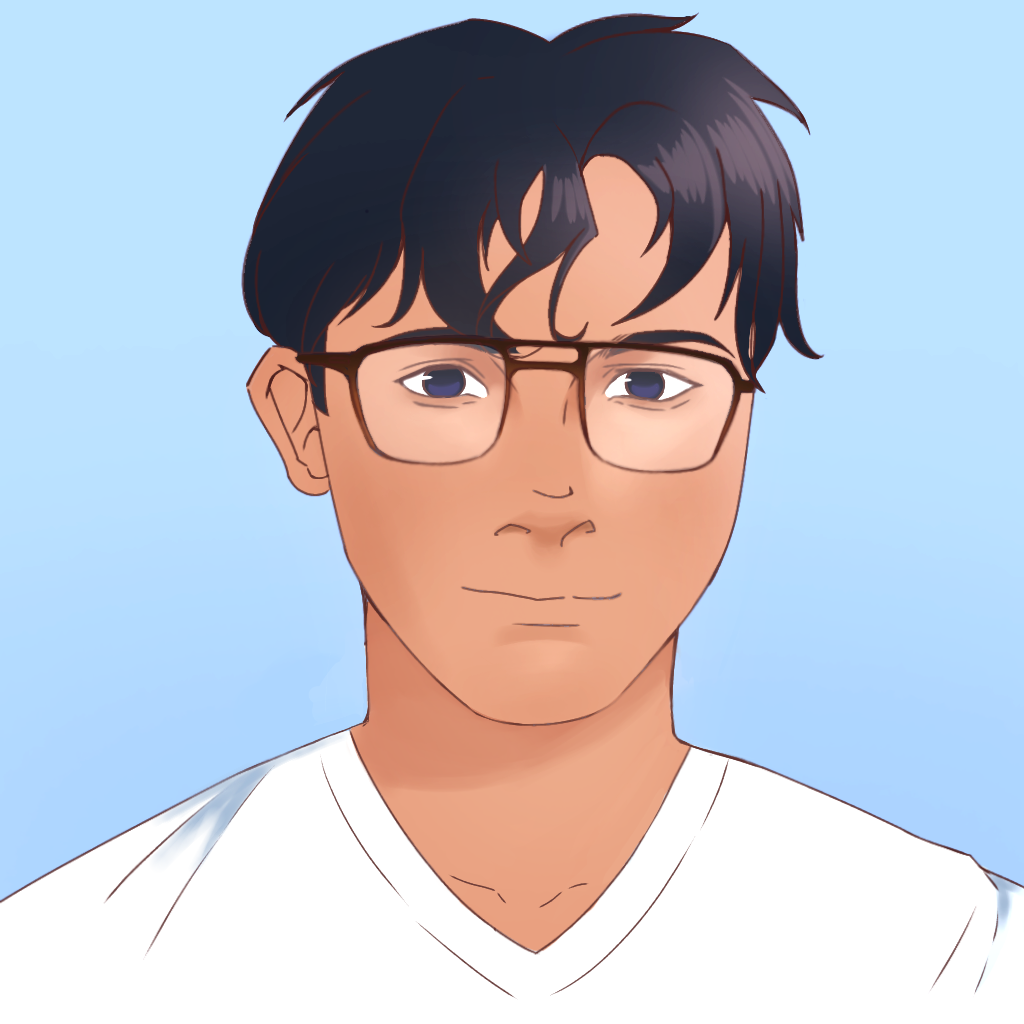
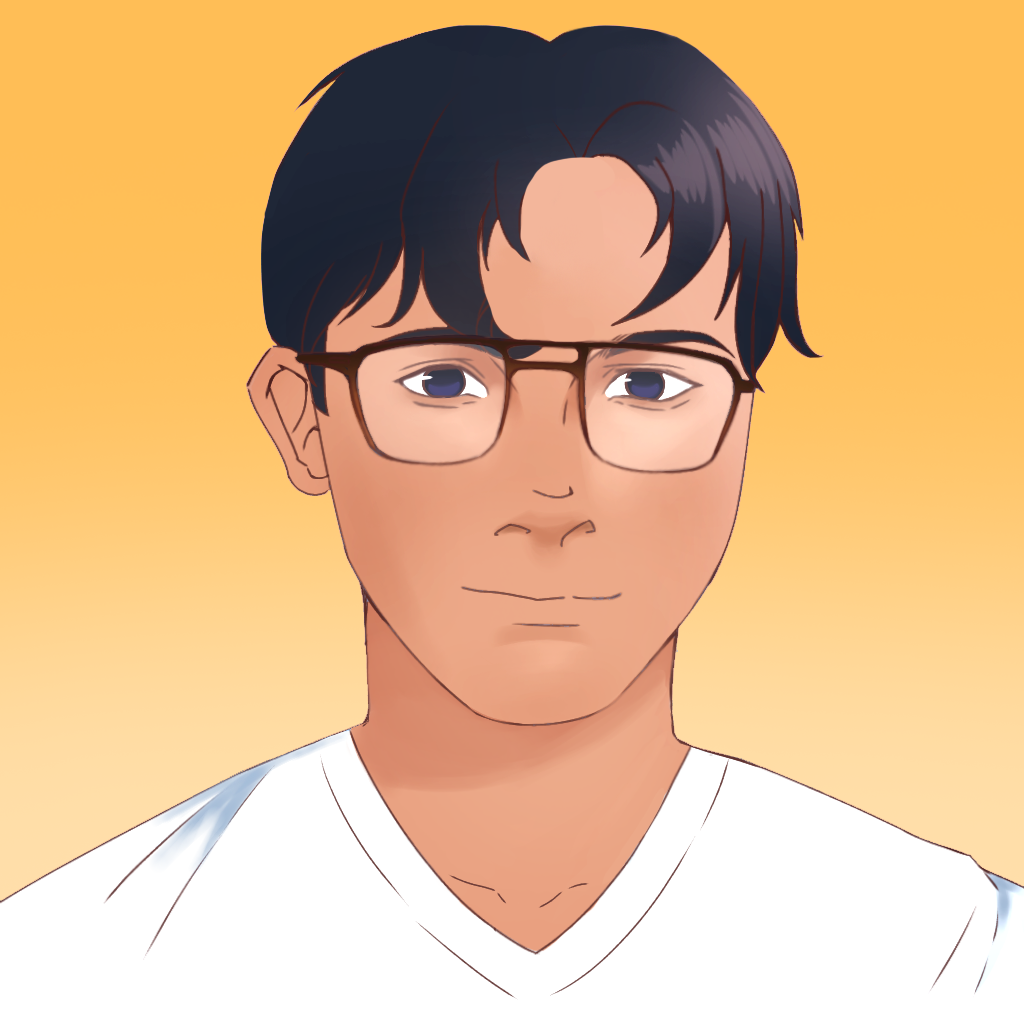
fix image

diff --git a/components/FeaturedGames.tsx b/components/FeaturedGames.tsx
@@ -102,17 +102,6 @@ export function FeaturedGames() {
                     priority
                   />
                 )}
-
-                {/* Feline Logo Overlay */}
-                <div className="relative w-32 h-32 z-10">
-                  <Image
-                    src="/Feline_PNG_white.png"
-                    alt="Feline Studios"
-                    fill
-                    className="object-contain"
-                    sizes="128px"
-                  />
-                </div>
               </div>
 
               {/* Content */}
@@ -237,4 +226,4 @@ export function FeaturedGames() {
       </div>
     </section>
   )
-}
+}

diff --git a/components/About.tsx b/components/About.tsx
@@ -24,7 +24,7 @@ export function About() {
     },
     {
       name: 'Idham Malik',
-      role: 'CEO',
+      role: 'Founder',
       image: '/team/idham.png',
       color: '#D48A2C',
     },
